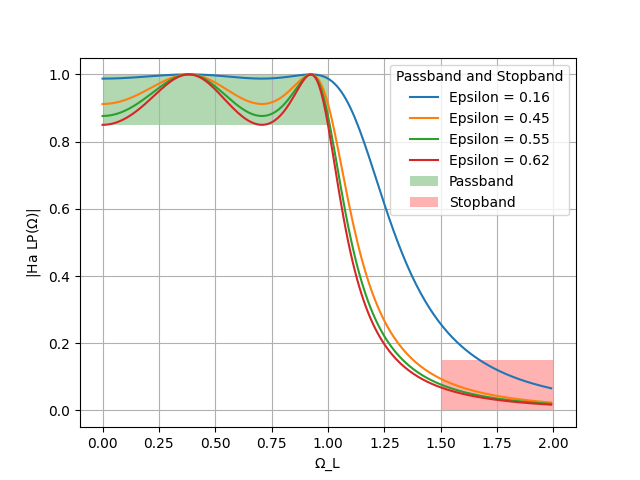
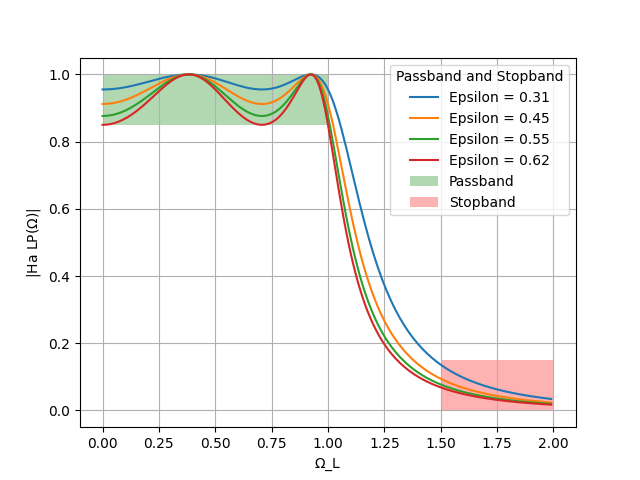
Add files via upload

diff --git a/filter/codes/plot1.py b/filter/codes/plot1.py
@@ -2,7 +2,7 @@ import numpy as np
 import matplotlib.pyplot as plt
 
 # Given parameters
-epsilons = [0.16, 0.45, 0.55, 0.62]
+epsilons = [0.31, 0.45, 0.55, 0.62]
 
 # Read precomputed values of C_N from file
 cn_values = np.loadtxt("cn_values.txt")
@@ -44,7 +44,7 @@ plt.fill(stopband_x, stopband_y, 'r', alpha=0.3, edgecolor='none')
 
 plt.xlabel('$\Omega$_L')
 plt.ylabel('|Ha LP($\Omega$)|')
-plt.legend(loc='best', title='Passband and Stopband', labels=['Epsilon = 0.16', 'Epsilon = 0.45', 'Epsilon = 0.55', 'Epsilon = 0.62', 'Passband', 'Stopband'])
+plt.legend(loc='best', title='Passband and Stopband', labels=['Epsilon = 0.31', 'Epsilon = 0.45', 'Epsilon = 0.55', 'Epsilon = 0.62', 'Passband', 'Stopband'])
 plt.grid(True)
 plt.savefig("plot1.png")
 
